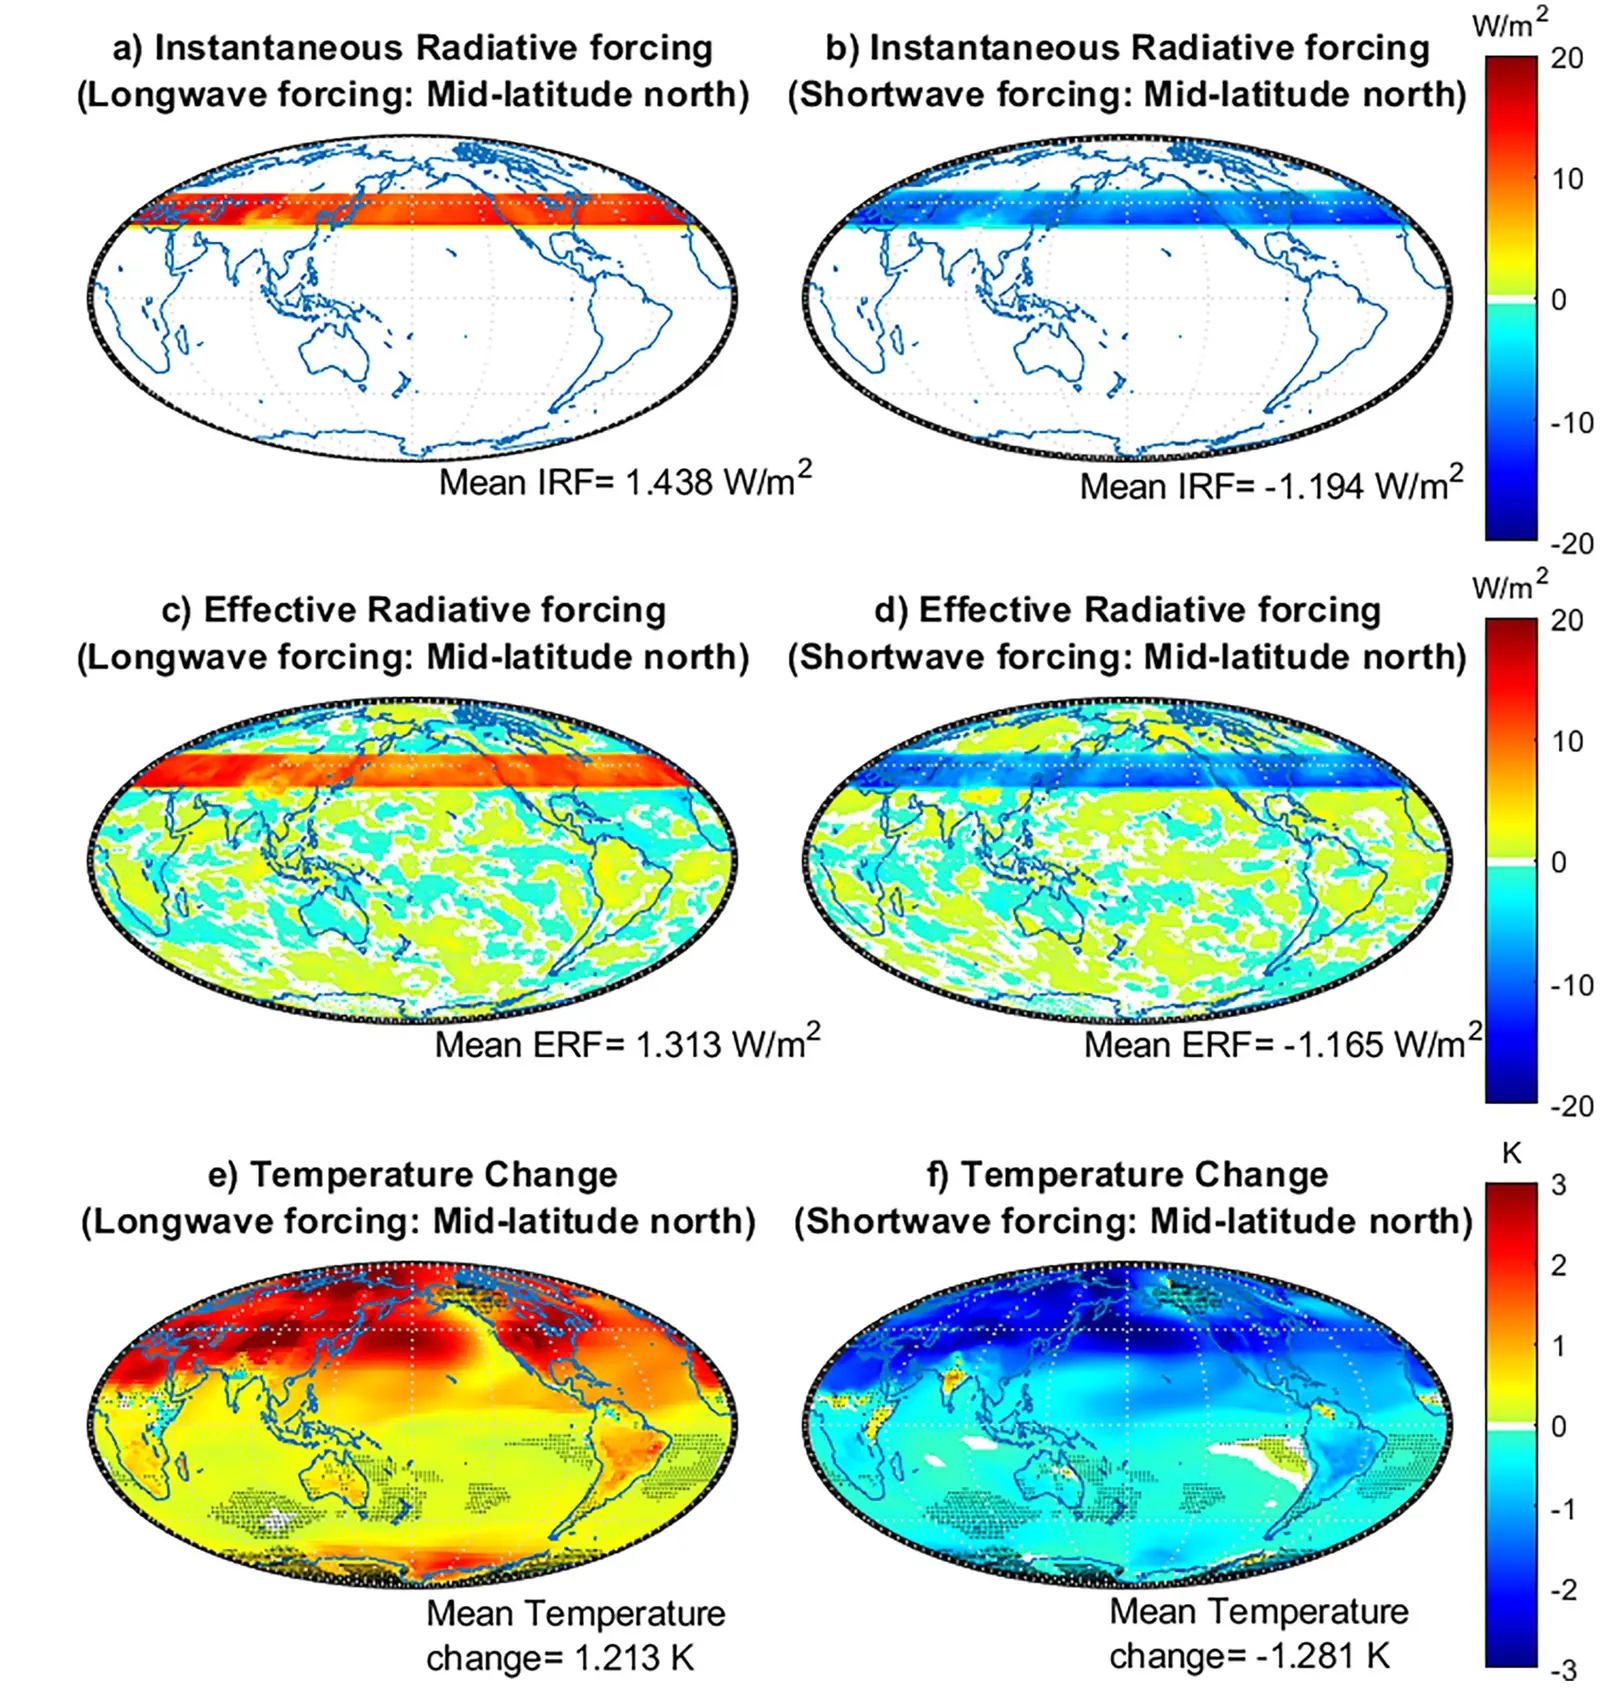
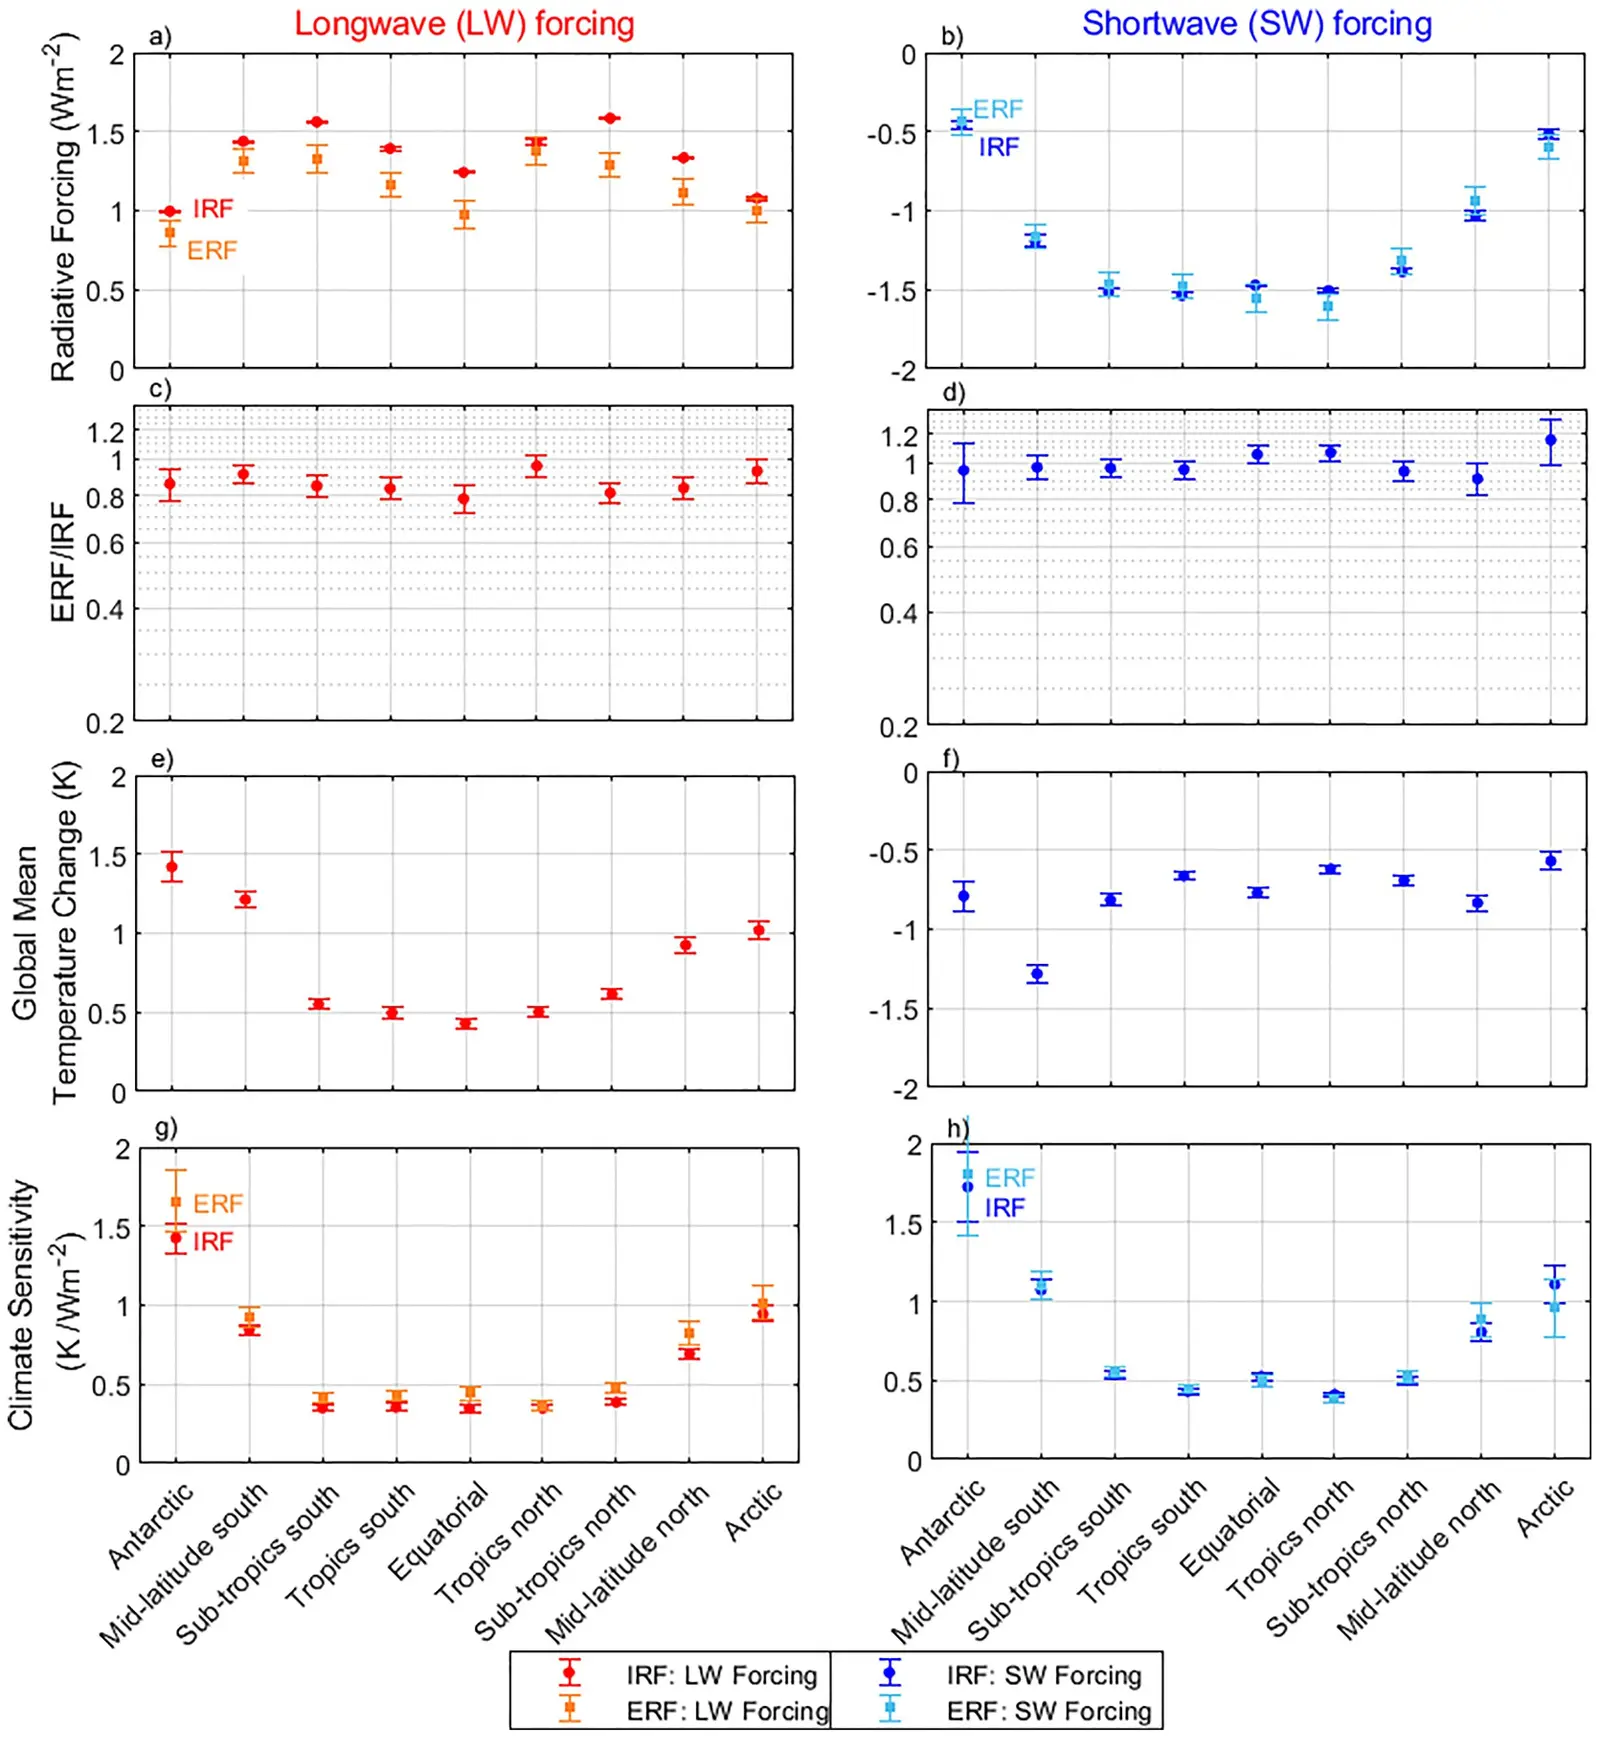
Thomas et al

diff --git a/docs/publications/thomas-2025-aviation-cirrus.html b/docs/publications/thomas-2025-aviation-cirrus.html
@@ -90,10 +90,10 @@
 
     <section class="section bio">
       <figure class="paper-figure">
-        <a class="figure-zoom" href="figures/thomas-2025-aviation-cirrus.webp"><img src="figures/thomas-2025-aviation-cirrus.webp" alt="Six global maps in two columns, longwave forcing on the left and shortwave on the right. The top row is instantaneous radiative forcing, confined to a narrow northern mid-latitude band, red for longwave and blue for shortwave. The middle row is effective radiative forcing, still concentrated in that band but with weaker signals spreading elsewhere. The bottom row is equilibrium surface temperature change, which is spread across the whole globe and strongest at high latitudes, far from the band where the forcing was applied." loading="lazy"></a>
+        <a class="figure-zoom" href="figures/thomas-2025-aviation-cirrus.webp"><img src="figures/thomas-2025-aviation-cirrus.webp" alt="Eight panels in two columns, longwave forcing on the left in red and orange, shortwave forcing on the right in blue and light blue. Each panel plots one value for each of nine latitude bands, from Antarctic through equatorial to Arctic. The top row is instantaneous and effective radiative forcing; longwave forcing peaks in the sub-tropics and is lowest at the poles, while shortwave forcing is strongest (most negative) at low latitudes. The second row is the ratio of effective to instantaneous forcing, close to 1 in every band. The third row is global mean surface temperature change; longwave warming is largest for Antarctic and Arctic forcing and smallest for equatorial forcing, the reverse of the forcing pattern, while shortwave cooling varies little between bands. The bottom row is climate sensitivity, which for both types of forcing is several times higher in the polar bands than in the tropics." loading="lazy"></a>
         <figcaption>
-          Forcing goes in along one narrow band; temperature comes out everywhere, and most strongly near the poles. That mismatch between where the energy is added and where the climate responds is the whole result — it is why the latitude at which contrails form matters more than the forcing they produce there.
-          <span class="credit">Figure 4 from Thomas et al. (2025), Earth&#39;s Future 13, e2025EF006201. Reproduced under CC BY 4.0. Extracted from the published PDF and resized for web display.</span>
+          Longwave forcing applied in the sub-tropics produces the most radiative forcing but some of the least global warming; the same forcing applied near the poles warms the planet most. Forcing is therefore a poor guide to which contrails matter: the latitude at which they form matters more.
+          <span class="credit">Figure 3 from Thomas et al. (2025), Earth&#39;s Future 13, e2025EF006201. Reproduced under CC BY 4.0. Extracted from the published PDF and resized for web display.</span>
         </figcaption>
       </figure>
 
@@ -106,6 +106,9 @@
       <p>For longwave absorbers, the latitude of largest radiative forcing and the latitude of largest temperature response are not the same. At equal concentration, subtropical absorbers produce the largest instantaneous radiative forcing, while polar absorbers produce the largest effect on global mean temperature.</p>
       <p>Shortwave scatterers behave differently. Their instantaneous and effective radiative forcing is largest at low latitudes, but the resulting global temperature response is not strongly sensitive to the latitude at which the forcing is applied.</p>
       <p>Because the longwave effect operates day and night while the shortwave effect operates only in daylight, the results imply that the warming attributable to aviation-induced cirrus is concentrated in night-time cirrus and in high-latitude winter cirrus.</p>
+      <p>In these simulations the ratio of effective to instantaneous radiative forcing (ERF/IRF) is about 0.9–1.0 for both longwave and shortwave forcing, much closer to unity than the 0.35–0.7 found for aviation-induced cirrus in the simulations of Bickel et al. (2020).</p>
+      <p>The authors attribute much of that difference to water-vapour scavenging, which their stylized design leaves out. Their forcing agents are hydrophobic absorbers and scatterers that do not interact with the model&#39;s hydrological cycle, so no water vapour is condensed into a contrail and all of it remains available to form natural cirrus later. In the Bickel et al. (2020) simulations, aviation-induced cirrus is embedded in the hydrological cycle and competes with natural cirrus for water vapour.</p>
+      <p>Contrails often form near frontal systems ahead of a cirrus region, so aviation aerosols may sometimes only hasten cirrus that would have formed naturally a little later. When that happens, the forcing of the natural cirrus that no longer forms is subtracted from the forcing attributed to aviation, lowering its effective radiative forcing. Without that scavenging effect, the results of this study apply most directly to the effective radiative forcing in the interval before the natural cirrus would have formed.</p>
 
       <h2>Why does it matter?</h2>
       <p>The finding separates two quantities that are often treated as interchangeable. Radiative forcing is a useful summary of how strongly something perturbs the energy budget, but here the place where forcing is largest is not the place where warming is largest, so forcing alone is a poor guide to which contrails matter most.</p>

diff --git a/PAGES-STATUS.md b/PAGES-STATUS.md
@@ -33,7 +33,7 @@ higher-resolution source.
 | [cheng-2025-trade-risks-energy-security](docs/publications/cheng-2025-trade-risks-energy-security.html)<br><sub>Cheng et al., 2025</sub> | 2025 | <sub>Climate and energy</sub> | 1600×2253 | `good` | 228 KB | <sub>PDF (600 dpi)</sub> | <sub>author reuse rights</sub> |  |
 | [ganter-2025-curtailed-power-hydrogen](docs/publications/ganter-2025-curtailed-power-hydrogen.html)<br><sub>Ganter et al., 2025</sub> | 2025 | <sub>Climate and energy, Macro-energy modeling</sub> | 1600×1347 | `good` | 75 KB | <sub>PDF (600 dpi)</sub> | <sub>CC BY 4.0</sub> |  |
 | [duan-2025-adaptation-abatement](docs/publications/duan-2025-adaptation-abatement.html)<br><sub>Duan et al., 2025</sub> | 2025 | <sub>Climate and economics</sub> | 3276×2032 | `good` | 338 KB | <sub>PDF (600 dpi)</sub> | <sub>CC BY-NC-ND 4.0</sub> |  |
-| [thomas-2025-aviation-cirrus](docs/publications/thomas-2025-aviation-cirrus.html)<br><sub>Thomas et al., 2025</sub> | 2025 | <sub>Climate and the carbon cycle</sub> | 1600×1707 | `good` | 262 KB | <sub>PDF (600 dpi)</sub> | <sub>CC BY 4.0</sub> |  |
+| [thomas-2025-aviation-cirrus](docs/publications/thomas-2025-aviation-cirrus.html)<br><sub>Thomas et al., 2025</sub> | 2025 | <sub>Climate and the carbon cycle</sub> | 1600×1740 | `good` | 114 KB | <sub>PDF (embedded image)</sub> | <sub>CC BY 4.0</sub> |  |
 | [wongel-2025-cooling-deficit](docs/publications/wongel-2025-cooling-deficit.html)<br><sub>Wongel et al., 2025</sub> | 2025 | <sub>Climate and economics</sub> | 1600×928 | `good` | 99 KB | <sub>PDF (600 dpi)</sub> | <sub>CC BY 4.0</sub> |  |
 | [covelli-2024-oahu-island-system](docs/publications/covelli-2024-oahu-island-system.html)<br><sub>Covelli et al., 2024</sub> | 2024 | <sub>Macro-energy modeling, Reliability of wind and solar power</sub> | 1600×937 | `good` | 48 KB | <sub>PDF (600 dpi)</sub> | <sub>author reuse rights</sub> |  |
 | [dowling-2024-hydrogen-storage-systems](docs/publications/dowling-2024-hydrogen-storage-systems.html)<br><sub>Dowling et al., 2024</sub> | 2024 | <sub>Macro-energy modeling</sub> | 1600×1861 | `good` | 116 KB | <sub>PDF (600 dpi)</sub> | <sub>CC BY 4.0</sub> |  |
